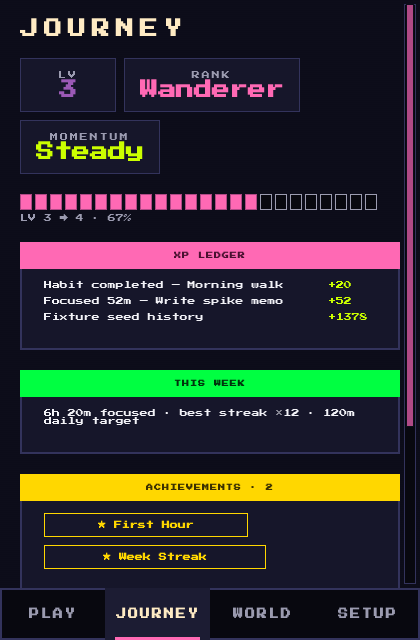
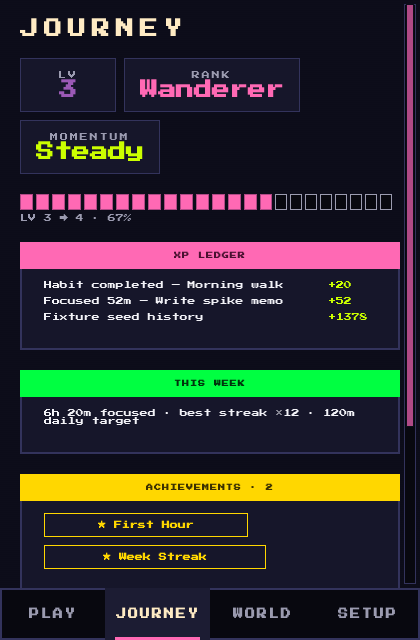
fix(#93): tile segmented bar exactly edge-to-edge (remainder distribution)
Live pass #31: the floor() in block-width math left up to <blocks>px of
dead slack after the last segment — the bar started flush but trailed
off short of its right edge. The division remainder is now distributed
one extra pixel across the leading blocks, so segments tile EXACTLY to
the assigned width at any panel size while staying integer-crisp under
software rendering. Tests 156/156; evidence refreshed.

Changed region(s): [[0.0619, 0.2812, 0.5881, 0.3438], [0.619, 0.2812, 0.65, 0.3438]]

diff --git a/arcade/SegmentedBar.qml b/arcade/SegmentedBar.qml
@@ -20,10 +20,19 @@ Rectangle {
     // 3px gaps keep every segment reading as its own dash — filled runs must
     // never fuse into one slab (Mohamed live pass: wanted "- _ -", not "=")
     readonly property int gap: 3
-    // floor keeps integer pixel widths — no sub-pixel fuzz under software
-    // rendering; the leftover (<blocks px) stays transparent at the right edge
-    readonly property int blockWidth: Math.max(1,
-        Math.floor((width - (blocks - 1) * gap) / blocks))
+    // integer pixel widths stay crisp under software rendering; the division
+    // remainder is distributed one extra pixel across the leading blocks so
+    // the row tiles EXACTLY to the assigned width — no dead slack at the
+    // right edge (live pass #31: floor-only left the bar trailing off)
+    readonly property int totalGapWidth: (blocks - 1) * gap
+    readonly property int baseBlockWidth: Math.max(1,
+        Math.floor((width - totalGapWidth) / blocks))
+    readonly property int remainderPx: Math.max(0,
+        width - totalGapWidth - baseBlockWidth * blocks)
+
+    function blockWidthFor(index) {
+        return baseBlockWidth + (index < remainderPx ? 1 : 0)
+    }
 
     implicitWidth: blocks * 15 - 2
     implicitHeight: 16
@@ -35,7 +44,7 @@ Rectangle {
             model: root.blocks
             delegate: Rectangle {
                 required property int index
-                width: root.blockWidth
+                width: root.blockWidthFor(index)
                 height: root.height
                 color: index < Math.round(root.fraction * root.blocks) ? root.fill : root.empty
                 border.color: index < Math.round(root.fraction * root.blocks) ? root.fillBorder : root.emptyBorder
